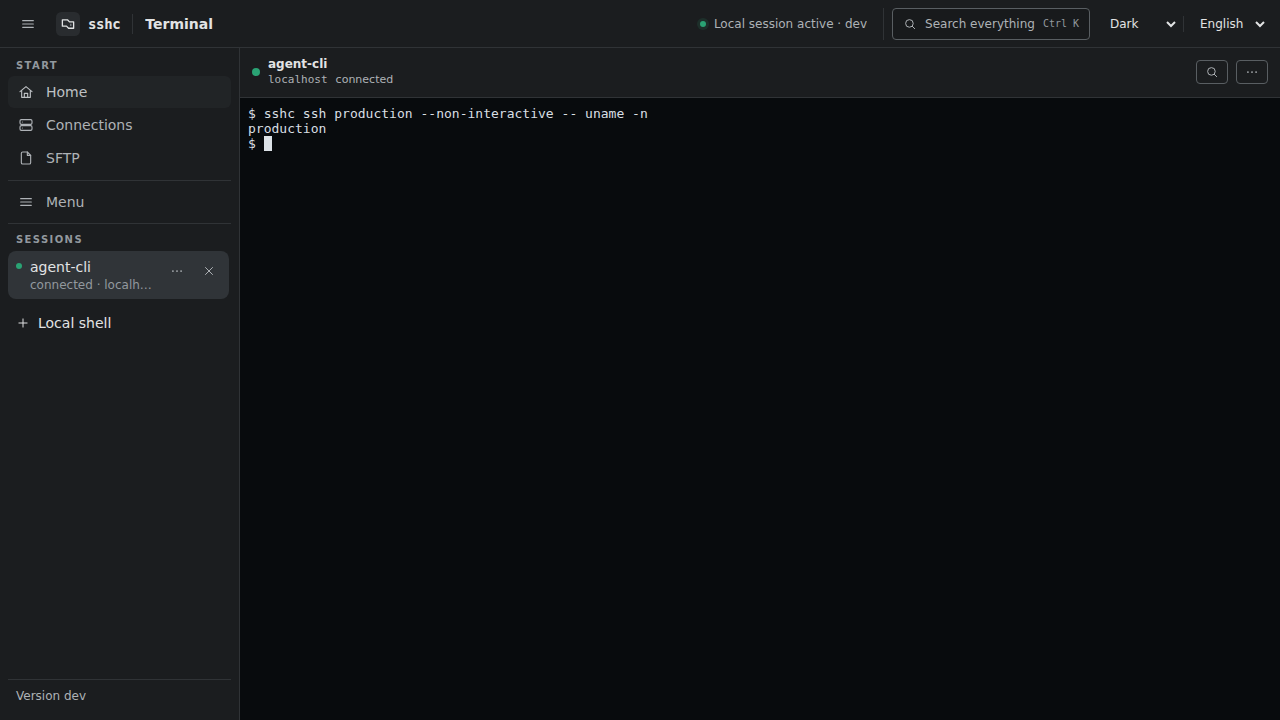
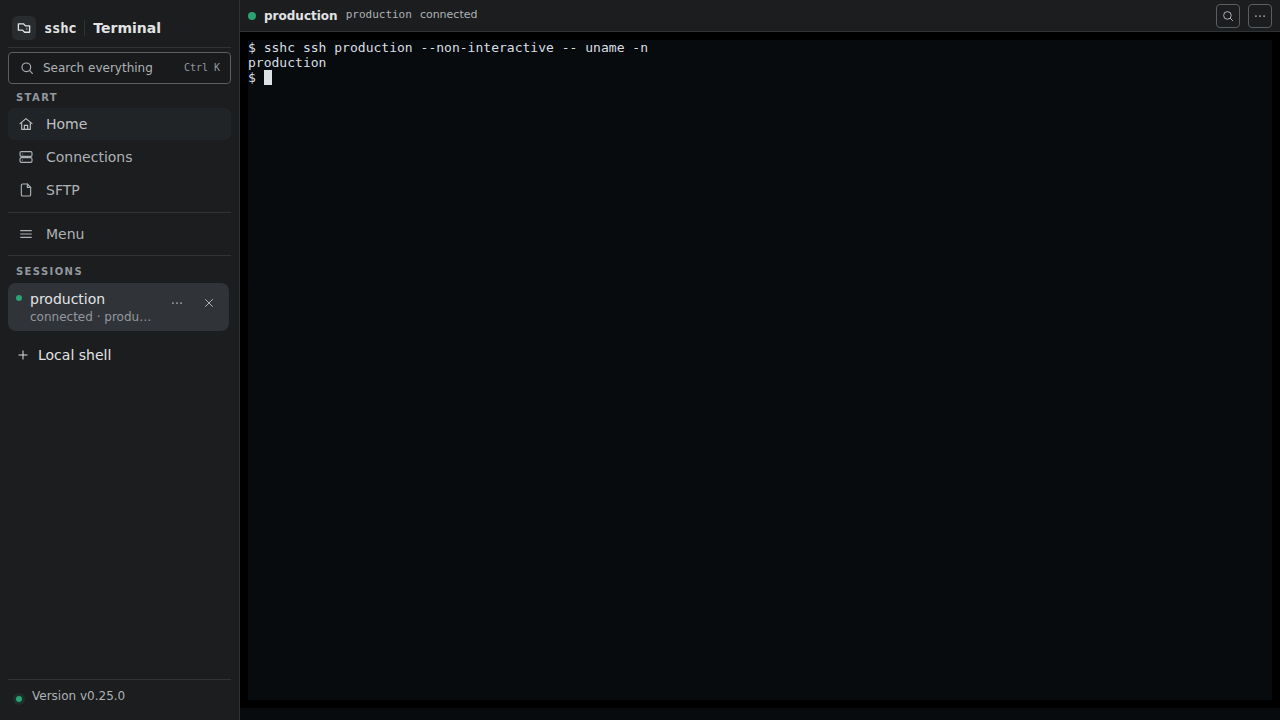
docs(pages): 現行UIの画面画像と操作説明を更新

diff --git a/web/e2e/terminal-features.spec.ts b/web/e2e/terminal-features.spec.ts
@@ -4,6 +4,60 @@ import { terminalKeyboard, terminalScrollbarSlider } from "./support/terminal";
 
 const visualDirectory = process.env.SSHC_VISUAL_DIR;
 
+async function mockConnectedTerminal(
+  page: import("@playwright/test").Page,
+  session: Record<string, unknown>,
+  output: string,
+) {
+  await page.route("**/api/v1/terminal/sessions**", async (route) => {
+    const path = new URL(route.request().url()).pathname;
+    if (path.endsWith("/stream")) {
+      await route.fulfill({
+        status: 201,
+        contentType: "application/json",
+        body: JSON.stringify({ streamTicket: String(session.id) }),
+      });
+      return;
+    }
+    await route.fulfill({
+      status: 200,
+      contentType: "application/json",
+      body: JSON.stringify({ sessions: [session], maxSessions: 50 }),
+    });
+  });
+  await page.routeWebSocket("**/terminal/stream?**", (socket) => {
+    socket.send(Buffer.from(output));
+  });
+}
+
+test("renders the documented non-interactive CLI example", async ({ page, installation }) => {
+  const session = {
+    id: "cli-production",
+    kind: "ssh",
+    alias: "production",
+    title: "production",
+    startedAt: "2026-09-01T00:00:00Z",
+    state: "connected",
+    problem: "",
+    forwards: [],
+  };
+  await mockConnectedTerminal(
+    page,
+    session,
+    "$ sshc ssh production --non-interactive -- uname -n\r\nproduction\r\n$ ",
+  );
+
+  await openApplication(page, installation);
+  await openSection(page, "Terminal");
+  const terminal = page.getByRole("region", { name: "Console for production" });
+  await expect(terminal).toContainText("sshc ssh production --non-interactive -- uname -n");
+  await expect(terminal).toContainText("production");
+
+  if (visualDirectory !== undefined) {
+    await page.screenshot({ path: join(visualDirectory, "cli-example-desktop.png"), fullPage: true });
+  }
+});
+
 test("uses a thin rounded scrollbar for terminal scrollback", async ({ page, installation }) => {
   await openApplication(page, installation);
   await openSection(page, "Terminal");
@@ -38,14 +92,24 @@ test("uses a thin rounded scrollbar for terminal scrollback", async ({ page, ins
   }
 });
 
-test("keeps terminal actions compact and exposes the new terminal settings", async ({ page, installation }) => {
+test("keeps terminal actions compact and exposes terminal settings", async ({ page, installation }) => {
+  await mockConnectedTerminal(
+    page,
+    {
+      id: "terminal-actions",
+      kind: "shell",
+      title: "docs-shell",
+      startedAt: "2026-09-01T00:00:00Z",
+      state: "connected",
+      problem: "",
+      forwards: [],
+    },
+    "developer@workstation:~$ ",
+  );
   await openApplication(page, installation);
   await openSection(page, "Terminal");
 
-  const navigation = page.getByRole("navigation", { name: "Primary" });
-  await navigation.getByRole("button", { name: "Local shell" }).click();
-
-  const terminal = page.getByRole("region", { name: /^Console for / });
+  const terminal = page.getByRole("region", { name: "Console for docs-shell" });
   await expect(terminal).toBeVisible();
   await expect(terminal.getByRole("button", { name: "Find" })).toBeVisible();
   await terminal.getByRole("button", { name: "More terminal actions" }).click();

diff --git a/web/e2e/sync.spec.ts b/web/e2e/sync.spec.ts
@@ -366,6 +366,7 @@ test("shows push, preview, apply, persisted success, and a later failure as dist
     });
     await page.getByText("Files to sync").click();
     await changeDisplayLanguage(page, "ja");
+    await page.locator("#sync-commit-message").fill("");
     await page.locator("#sync-commit-message").fill("設定を更新");
     await page.evaluate(async () => { await document.fonts.ready; });
     await page.screenshot({
@@ -380,6 +381,7 @@ test("shows push, preview, apply, persisted success, and a later failure as dist
     });
     await page.getByText("同期するファイル").click();
     await changeDisplayLanguage(page, "en");
+    await page.locator("#sync-commit-message").fill("");
     await page.locator("#sync-commit-message").fill("Update config");
     await page.screenshot({
       path: `${visualDirectory}/sshc-v0.16.1-sync-settings-collapsed.png`,
@@ -444,7 +446,9 @@ test("shows push, preview, apply, persisted success, and a later failure as dist
       fullPage: true,
     });
     await page.getByText("Details and history").click();
+    await page.setViewportSize({ width: 1280, height: 720 });
     await changeDisplayLanguage(page, "ja");
+    await page.setViewportSize({ width: 360, height: 800 });
     await page.getByText("同期するファイル").click();
     await page.getByPlaceholder("ファイル名・パスを検索").fill("lock");
     await page
@@ -456,8 +460,8 @@ test("shows push, preview, apply, persisted success, and a later failure as dist
       fullPage: true,
     });
     await page.getByText("同期するファイル").click();
-    await changeDisplayLanguage(page, "en");
     await page.setViewportSize({ width: 1280, height: 720 });
+    await changeDisplayLanguage(page, "en");
   }
   await page.getByRole("button", { name: "Push this workspace" }).click();
   expect(pushedMessage).toBe("Update config");

diff --git a/web/e2e/shell.spec.ts b/web/e2e/shell.spec.ts
@@ -32,6 +32,9 @@ async function stubUpdateStatus(page: import("@playwright/test").Page) {
 
 test("draws one separator above the desktop navigation version", async ({ page, installation }) => {
   await stubUpdateStatus(page);
+  if (process.env.SSHC_VISUAL_DIR !== undefined) {
+    await page.setViewportSize({ width: 1440, height: 900 });
+  }
   await openApplication(page, installation);
 
   const navigation = page.getByRole("navigation", { name: "Primary" });
@@ -42,6 +45,10 @@ test("draws one separator above the desktop navigation version", async ({ page, 
   await expect(navigation.getByText("Home", { exact: true }).first()).toBeVisible();
   await expect(page.locator("[data-app-header]")).toBeHidden();
   await expect.poll(() => navigationFooterTopBorders(page)).toBe(1);
+
+  if (process.env.SSHC_VISUAL_DIR !== undefined) {
+    await page.screenshot({ path: `${process.env.SSHC_VISUAL_DIR}/home-desktop.png`, fullPage: true });
+  }
 });
 
 test("keeps the engine version visible when the release check fails", async ({ page, installation }) => {

diff --git a/web/e2e/workspace-drag.spec.ts b/web/e2e/workspace-drag.spec.ts
@@ -57,6 +57,11 @@ test("docks connected terminals into a live workspace", async ({ page, installat
   const navigation = page.getByRole("navigation", { name: "Primary" });
   await navigation.getByRole("button", { name: "edge", exact: true }).click();
 
+  if (process.env.SSHC_VISUAL_DIR !== undefined) {
+    await expect(page.getByRole("region", { name: "Console for edge" })).toContainText("connected");
+    await page.screenshot({ path: `${process.env.SSHC_VISUAL_DIR}/terminal-desktop.png`, fullPage: true });
+  }
+
   const target = page.locator("[data-single-terminal-drop-target='workspace-edge']");
   await expect(target).toBeVisible();
   const databaseRow = navigation

diff --git a/web/e2e/secrets.spec.ts b/web/e2e/secrets.spec.ts
@@ -47,6 +47,10 @@ test("gives one named secret to two hosts and writes neither name into the file"
   const assignedHosts = office.getByRole("list", { name: "Assigned hosts" });
   await expect(assignedHosts.getByRole("listitem")).toHaveText(["bastion", "nas"]);
 
+  if (process.env.SSHC_VISUAL_DIR !== undefined) {
+    await page.screenshot({ path: `${process.env.SSHC_VISUAL_DIR}/credentials-desktop.png`, fullPage: true });
+  }
+
   const sealed = await installation.read("sshc/secrets");
   for (const absent of ["hunter2", "office-vm", "bastion", "nas"]) {
     expect(sealed).not.toContain(absent);

diff --git a/pages/index.md b/pages/index.md
@@ -19,7 +19,7 @@ outline: false
       </div>
     </div>
     <div class="sshc-preview">
-      <img src="/images/workspace-desktop.png" alt="sshcで4つのSSH接続を開いたTerminal画面" width="1280" height="720">
+      <img src="/images/workspace-desktop.png" alt="sshcで複数のSSH接続を開いたTerminal画面" width="1280" height="720">
     </div>
   </section>
 
@@ -29,7 +29,7 @@ outline: false
       <p>SSHとローカルシェルを複数のペインで開けます。SFTPやポート転送にも同じ接続設定を使い、OpenSSH形式のまま管理できます。</p>
     </div>
     <div class="sshc-feature-grid">
-      <article class="sshc-feature"><img class="sshc-feature-image" src="/images/workspace-desktop.png" alt="4つのSSH接続を開いたワークスペース" width="1280" height="720"><div class="sshc-feature-body"><span class="index">01</span><h3>SSHとローカルシェル</h3><p>1つのTerminalを最大4ペインに分割できます。再接続、検索、ポート転送にも対応しています。</p></div></article>
+      <article class="sshc-feature"><img class="sshc-feature-image" src="/images/workspace-desktop.png" alt="複数のSSH接続を開いたワークスペース" width="1280" height="720"><div class="sshc-feature-body"><span class="index">01</span><h3>SSHとローカルシェル</h3><p>1つのTerminalを最大4ペインに分割できます。再接続、検索、ポート転送にも対応しています。</p></div></article>
       <article class="sshc-feature"><img class="sshc-feature-image" src="/images/connections-desktop.png" alt="OpenSSH接続を整理するConnections画面" width="1280" height="720"><div class="sshc-feature-body"><span class="index">02</span><h3>OpenSSH設定をそのまま使う</h3><p><code>~/.ssh/config</code>の<code>Include</code>や<code>Match</code>をそのまま扱っています。通常の<code>ssh</code>やVS Codeでも、同じエイリアスを使えます。</p></div></article>
       <article class="sshc-feature"><img class="sshc-feature-image" src="/images/credentials-desktop.png" alt="保存済みパスワードを複数ホストへ割り当てたVault画面" width="1280" height="720"><div class="sshc-feature-body"><span class="index">03</span><h3>認証情報は一度保存</h3><p>パスワードや鍵のパスフレーズはVaultに一度保存すれば、Terminal、SFTP、CLIでそのまま使えます。機能ごとに設定し直す必要はありません。</p></div></article>
       <article class="sshc-feature"><img class="sshc-feature-image" src="/images/cli-desktop.png" alt="sshcの非対話CLIを実行したTerminal画面" width="1280" height="720"><div class="sshc-feature-body"><span class="index">04</span><h3>AIエージェントから使えるCLI</h3><p>CodexなどのAIエージェントからsshcを直接実行できます。接続にはVaultに保存した認証情報を使っています。</p></div></article>

diff --git a/pages/en/index.md b/pages/en/index.md
@@ -29,7 +29,7 @@ outline: false
       <p>Open SSH sessions and local shells in multiple panes, then use SFTP and port forwarding with the same connections. Connection settings remain in OpenSSH format.</p>
     </div>
     <div class="sshc-feature-grid">
-      <article class="sshc-feature"><img class="sshc-feature-image" src="/images/workspace-desktop.png" alt="A Workspace with four SSH connections open" width="1280" height="720"><div class="sshc-feature-body"><span class="index">01</span><h3>SSH and local shells</h3><p>Reconnect, search, forward ports, and arrange up to four panes in one terminal.</p></div></article>
+      <article class="sshc-feature"><img class="sshc-feature-image" src="/images/workspace-desktop.png" alt="A Workspace with multiple SSH connections open" width="1280" height="720"><div class="sshc-feature-body"><span class="index">01</span><h3>SSH and local shells</h3><p>Reconnect, search, forward ports, and arrange up to four panes in one terminal.</p></div></article>
       <article class="sshc-feature"><img class="sshc-feature-image" src="/images/connections-desktop.png" alt="Connections screen for organizing OpenSSH hosts" width="1280" height="720"><div class="sshc-feature-body"><span class="index">02</span><h3>Use OpenSSH configuration directly</h3><p>Keep <code>~/.ssh/config</code>, Include, and Match intact, so regular ssh and VS Code use the same aliases.</p></div></article>
       <article class="sshc-feature"><img class="sshc-feature-image" src="/images/credentials-desktop.png" alt="Vault screen assigning a saved password to multiple hosts" width="1280" height="720"><div class="sshc-feature-body"><span class="index">03</span><h3>Reuse saved credentials</h3><p>Register passwords and key passphrases in the vault once, then use them from the terminal, SFTP, and CLI without configuring each feature separately.</p></div></article>
       <article class="sshc-feature"><img class="sshc-feature-image" src="/images/cli-desktop.png" alt="Terminal running the sshc non-interactive CLI" width="1280" height="720"><div class="sshc-feature-body"><span class="index">04</span><h3>CLI for AI agents</h3><p>Codex and other agents can call sshc directly and connect with saved credentials.</p></div></article>

diff --git a/pages/en/reference/settings.md b/pages/en/reference/settings.md
@@ -5,7 +5,7 @@ description: Appearance, terminal, input, notifications, and local-shell setting
 
 # Settings
 
-Menu has a Settings group with direct links to Engine, Terminal, Notifications, Open connections, and Master password. Each opens as its own page. Connection-specific behavior lives in the connection's sshc tab.
+Menu is organized into feature groups. Its Settings group links directly to Engine, Terminal, Notifications, Open connections, and Master password. Preferences at the bottom of Menu controls the theme and display language. Connection-specific behavior lives in the connection's sshc tab.
 
 ## Engine
 
@@ -13,9 +13,12 @@ Desktop uses a device-local stable port so bookmarks and the installed web app k
 
 ## Appearance
 
+Use Preferences for:
+
 - System, light, or dark theme
 - Japanese or English
-- Color palette, font, background, and tint
+
+Configure the terminal color scheme, font, background, and tint under **Settings → Terminal**.
 
 Theme and language controls are also available on vault create and unlock screens.
 

diff --git a/pages/en/features/terminal.md b/pages/en/features/terminal.md
@@ -30,7 +30,7 @@ The engine replay buffer and browser scrollback both stay in memory. They are no
 
 ## Input and clipboard
 
-Configure copy-on-select and right-click paste in Settings. OSC 52 has a global default and a per-SSH-host allow/deny override. Because it lets remote software write to your clipboard, enable it only for hosts you trust.
+Normal text-selection copying stays inside the browser and does not require OSC 52. Configure automatic copy-on-select and right-click paste under **Settings → Terminal**. OSC 52 lets remote software write to the device clipboard. It has a global default and a per-SSH-host allow/deny override, so enable it only for hosts you trust.
 
 Kitty keyboard mode follows requests from the remote application. A JIS option sends the yen key as backslash. Mobile adds a special-key row for Ctrl, Alt, Esc, Tab, and arrows.
 

diff --git a/pages/platform/android.md b/pages/platform/android.md
@@ -18,7 +18,7 @@ GitHub Releasesから署名済みのAPKをダウンロードできます。Andro
 - 外部URLはOS標準のブラウザーで表示
 - 転送の完了／失敗をAndroid通知で知らせる
 
-メニュードロワーは左上のメニューボタンから開きます。Androidの戻るジェスチャーと競合しないよう、画面端からのスワイプでは開きません。ドロワーの外側をタップするか、戻る操作で閉じられます。
+メニュードロワーは左上のメニューボタンから開きます。画面端のジェスチャーはAndroidの戻る操作として扱います。ドロワーの外側をタップするか、戻る操作で閉じられます。
 
 ## ローカルシェル
 
